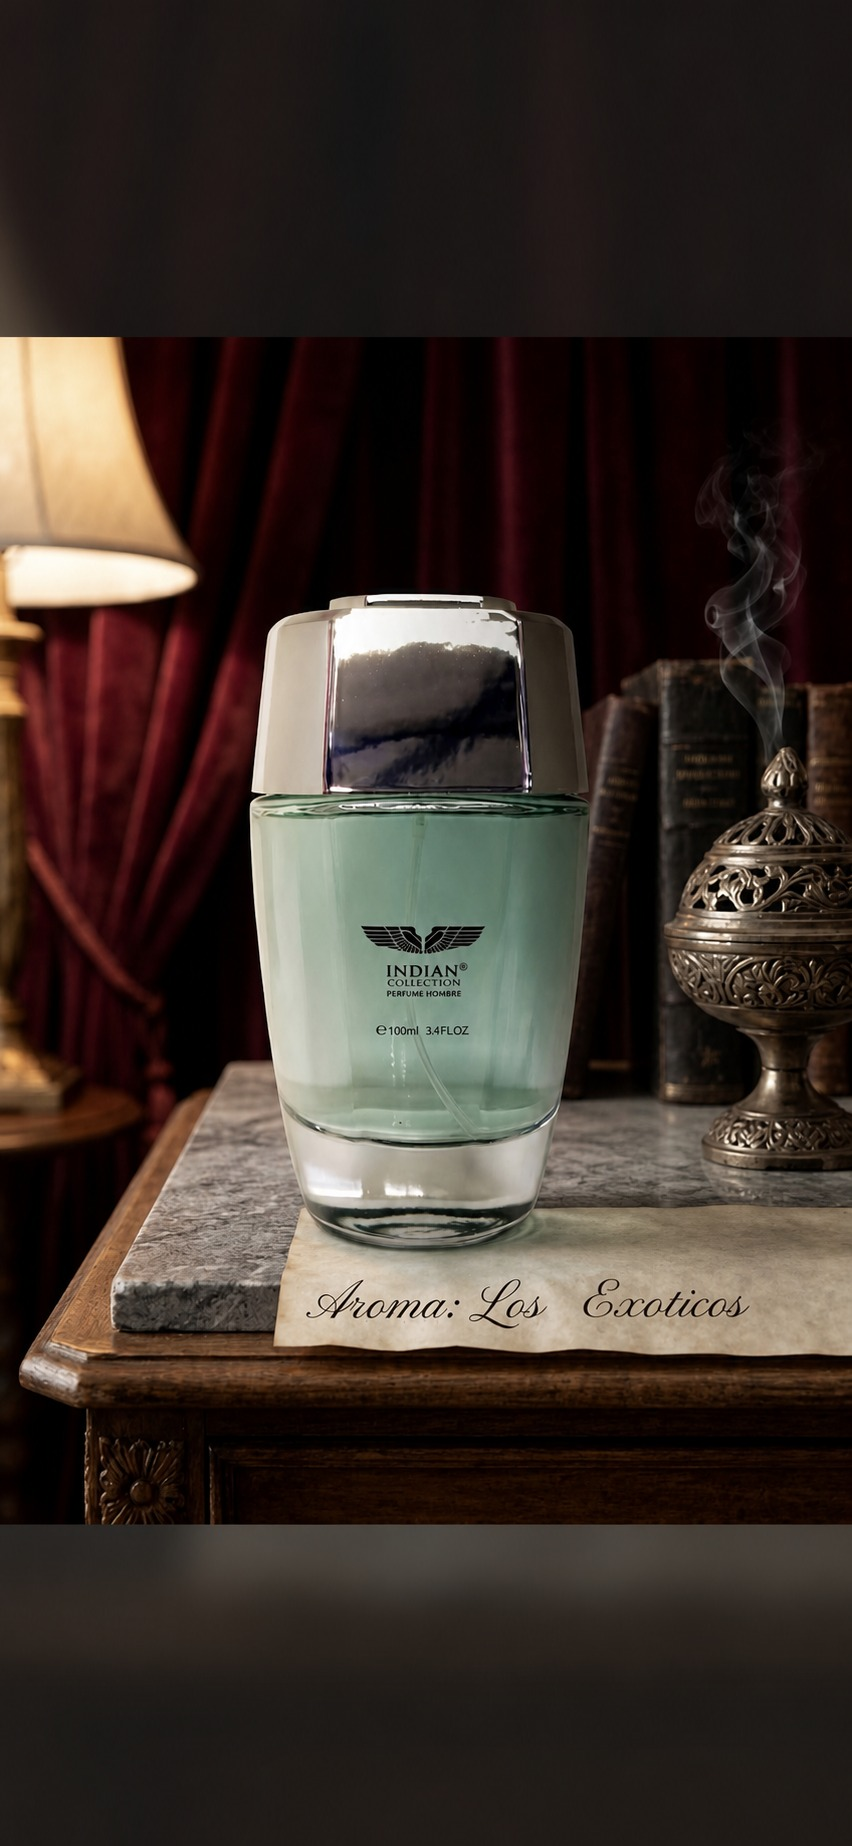
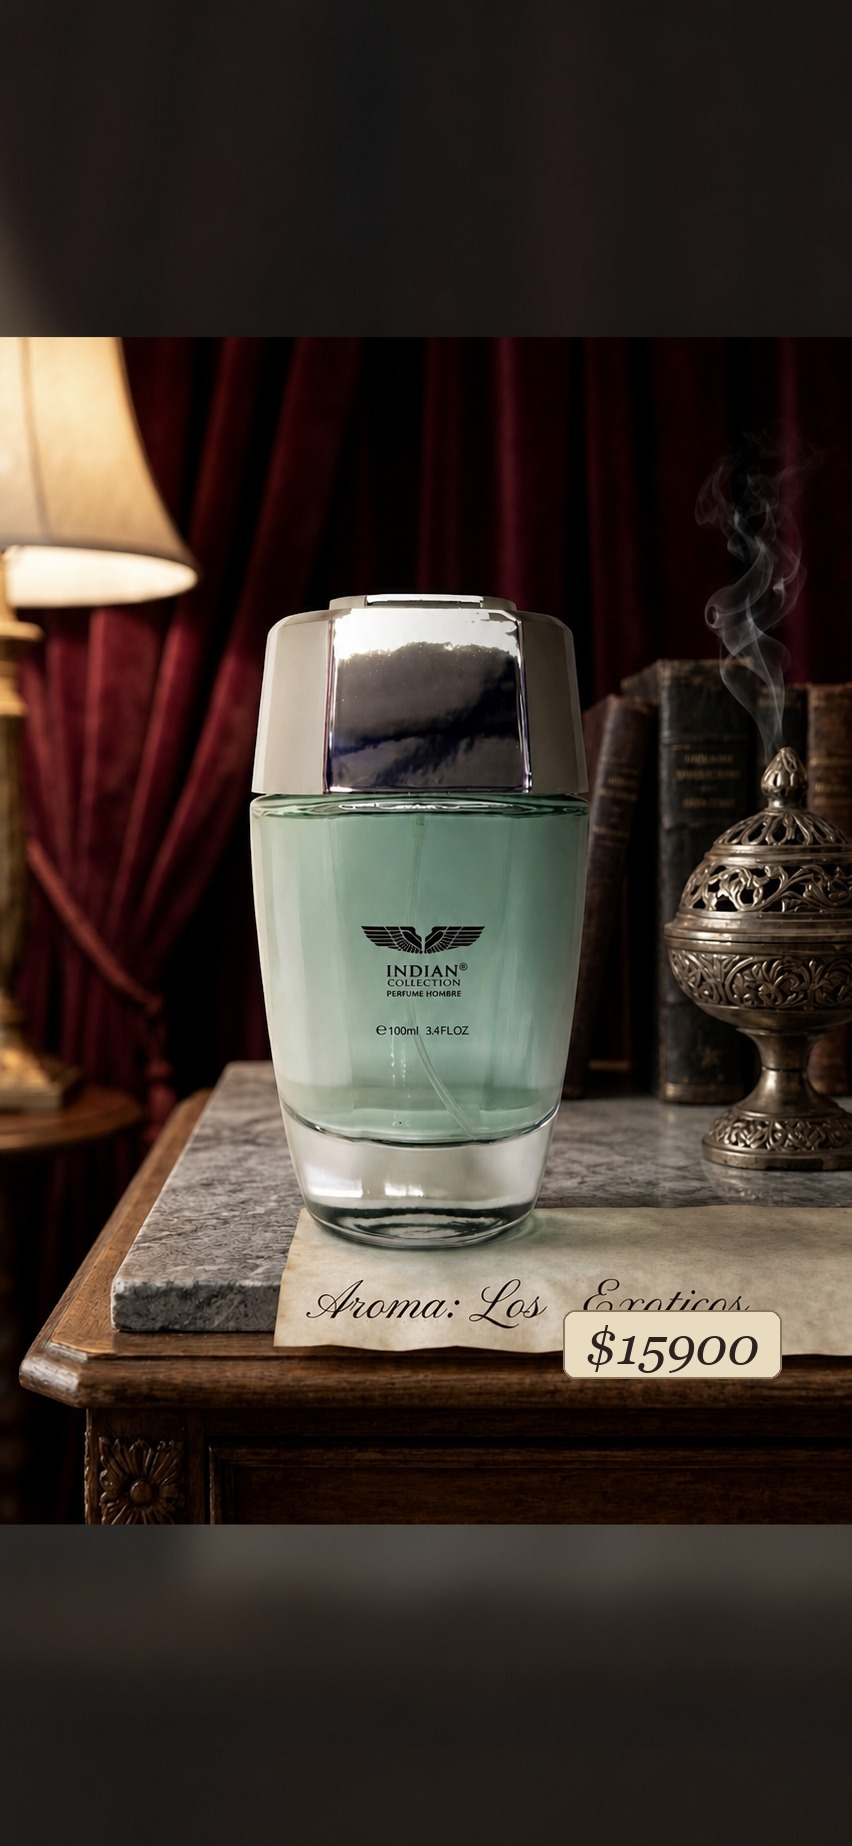
Add single price to men temptation perfume

Changed region(s): [[0.6408, 0.7102, 0.9155, 0.7719]]

diff --git a/index.html b/index.html
@@ -221,7 +221,7 @@
             <img src="pefumes/perfumes de hombre/men_oceano_15900.jpg" alt="Men's ocean perfume display.">
           </article>
           <article class="perfume-item reveal">
-            <img src="pefumes/perfumes de hombre/men_tentacion_15900.jpg?v=price-removed-1" alt="Men's temptation perfume display.">
+            <img src="pefumes/perfumes de hombre/men_tentacion_15900.jpg?v=price-single-1" alt="Men's temptation perfume display.">
           </article>
           <article class="perfume-item reveal">
             <img src="pefumes/perfumes de hombre/men_selvatica_15900.jpg" alt="Men's selvatica perfume display.">